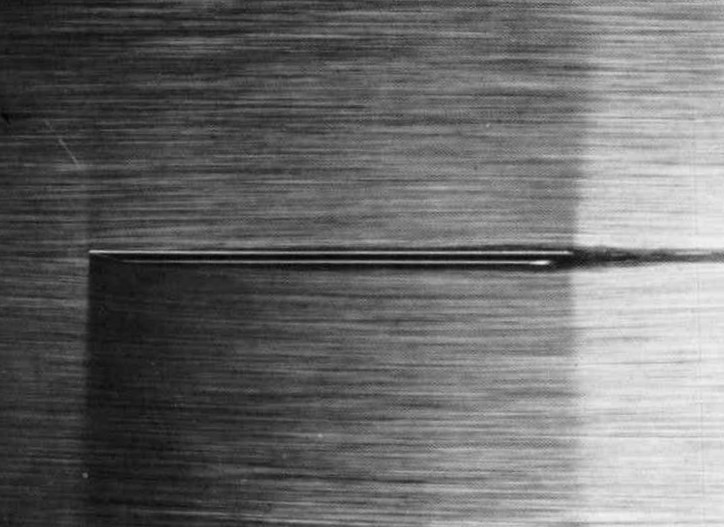
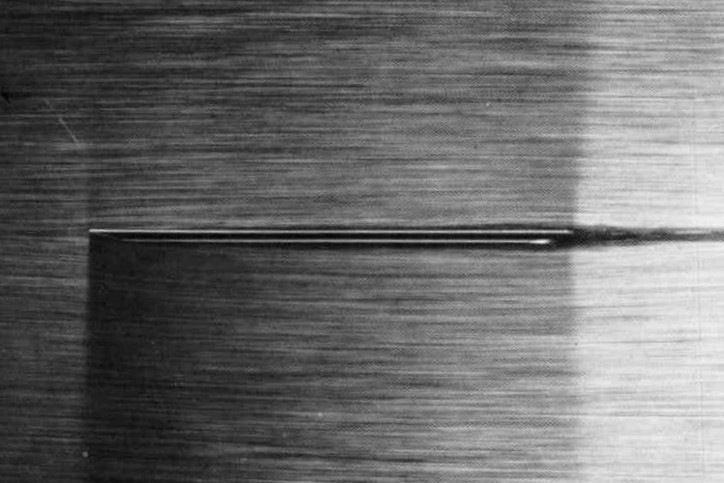
drag

diff --git a/teaching/Applied-Fluids/Notes/DragAndLift.md b/teaching/Applied-Fluids/Notes/DragAndLift.md
@@ -39,10 +39,12 @@ The drag coefficient, $C_D$, depends on the shape and orientation of the body.  
 The drag force on an object is usually divided into two components; *friction drag* and *pressure drag* (also called *form drag*).  The friction drag is due to the friction between the fluid and the surface of the object.  The pressure drag is sensitive to the shape of the object and how the fluid separates from the boundary of the object.  The total drag is the sum of these two contributions.  
 
 <div class="photo" style="width: 800px;">
-  <img src="img/VanDyke/FlatPlate29.jpg" style="width: 350px"><img src="img/VanDyke/FlatPlate37.jpg" style="width: 350px">
-  <p>Visualization using air bubbles in water over a beveled flat plate at a Reynolds number of 10,000.  When the plate is parallel to the flow the drag is due entirely to friction drag.  As the angle of incidence increases to 20&deg; the flow completely separates from the upper edge of the plate.  The drag is now dominated by pressure drag.  <BR><BR> <small>Images from Van Dyke, Milton, and Milton Van Dyke. <em>An album of fluid motion.</em> Vol. 176. Stanford: Parabolic Press, 1982.</small>
+  <img src="img/VanDyke/FlatPlate29.jpg" style="width: 350px">&nbsp;&nbsp;&nbsp;<img src="img/VanDyke/FlatPlate37.jpg" style="width: 350px">
+  <p>Visualization using air bubbles in water over a beveled flat plate at a Reynolds number of 10,000.  When the plate is parallel to the flow the drag is due entirely to friction drag.  As the angle of incidence increases to 20&deg; the flow completely separates from the upper edge of the plate and the drag is dominated by pressure drag.  <BR><BR> <small>Images from Van Dyke, Milton, and Milton Van Dyke. <em>An album of fluid motion.</em> Vol. 176. Stanford: Parabolic Press, 1982.</small>
   </p>
 </div>
+
+## Drag Coefficients of Common Geometries
 
 ### Spheres
 
@@ -53,7 +55,7 @@ The drag force on an object is usually divided into two components; *friction dr
   Open triangles are data from <a href="https://doi.org/10.1017/S002211206500143X">Maxworthy, 1965</a>.
   Open squares are data from <a href="https://doi.org/10.2514/3.6164">Roos and Willmarth, 1971</a>.  
   The remaining data points are from earlier experiments,
-  <a href="https://doi.org/10.1007/978-3-662-52919-5">Schlichting, 1979</a>
+  <a href="https://doi.org/10.1007/978-3-662-52919-5">Schlichting, 1979</a>.
   </p>
 </div>
 
@@ -136,7 +138,7 @@ The length scale used in the calculation of the Reynolds number is the length of
 <caption>
 Drag coefficient for various 3D shapes
 
-<a href="https://ntrs.nasa.gov/search.jsp?R=19930091586">NACA-TR-513</a>
+<a href="https://ntrs.nasa.gov/search.jsp?R=19930091586">NACA-TR-513</a>.
 </caption>
 <thead>
 <tr><th> Shape  </th><th>Flow orientation</th><th style="padding:10px"> $C_D$ </th></tr>
